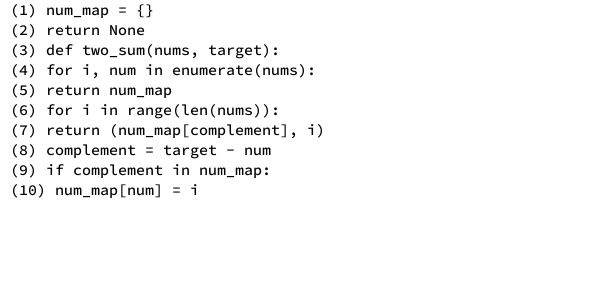
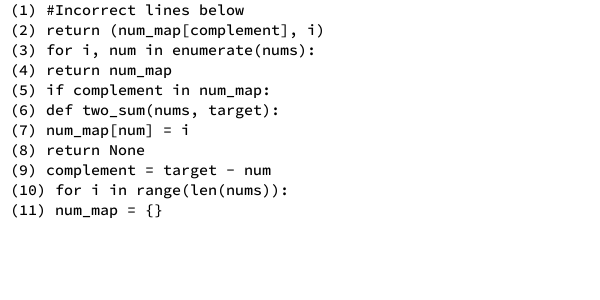
partial credit engine v1

diff --git a/lib/functions.py b/lib/functions.py
@@ -6,29 +6,49 @@
 from . import settings
 import random
 from PIL import Image, ImageDraw, ImageFont
+import ast
+import hashlib
+
+def similarity_preserving_shuffle(lines):
+    def line_hash(line):
+        # Convert line to a hash integer
+        return int(hashlib.md5(line.encode()).hexdigest(), 16)
+    
+    # Sort by hash, but we can mix in a secret salt for “randomness”
+    salt = 12345  # optional, fixed for deterministic behavior
+    def salted_hash(line):
+        return (line_hash(line) ^ salt)
+    
+    # Sort lines by their salted hash
+    return sorted(lines, key=salted_hash)
 
 def read_original_code(read_code):
     original_code = read_code.readlines()
-    wrong_inst = []
-    
     code_wo_empty_lines = [line for line in original_code if line.strip() != ""]
-    correct_sol = code_wo_empty_lines.copy()
-    
-    for el in range(len(correct_sol)):
-        correct_sol[el] = correct_sol[el].split('\n')[0]
+    correct_sol = [line.rstrip("\n") for line in code_wo_empty_lines]
 
-    
-    for line in correct_sol:
-        #Extracting wrong instructions
-        if "Incorrect lines" in line:
-            wrong_inst= correct_sol[correct_sol.index(line)+1:]
-            correct_sol = correct_sol[:correct_sol.index(line)]
+    incorrect_sol = []
+    incorrect_sol_dict = {}
+
+    for idx, line in enumerate(correct_sol):
+        if "incorrect_lines" in line:
+            # Include preceding comment if exists
+            if idx > 0 and correct_sol[idx-1].strip().startswith("#"):
+                idx -= 1
+            dict_lines = correct_sol[idx:]
+            correct_sol = correct_sol[:idx]
+            dict_str = "\n".join(dict_lines)
+            dict_part = dict_str.split("=", 1)[1].strip()
+            incorrect_sol_dict = ast.literal_eval(dict_part)
+            incorrect_sol = list(incorrect_sol_dict.values())
             break
-        
-    return correct_sol, wrong_inst
+
+    return correct_sol, incorrect_sol, incorrect_sol_dict
+
+
 
 def shuffle_sol(correct_sol):
-    random_code = random.sample(correct_sol, k=len(correct_sol))
+    random_code = similarity_preserving_shuffle(correct_sol.copy())
     
     #removing the indents for programming blocks
     for el in range(len(random_code)):
@@ -140,6 +160,45 @@ def incorrect_instructions(input_code, wrong_inst):
     code_w_incorrect_instrctns = input_code + wrong_inst
     print_code(code_w_incorrect_instrctns, "##### Code with Incorrect Instructions #####")
     return code_w_incorrect_instrctns
+
+def numerize_code(input_code):
+    num_line_pair = {}
+    for line in range(len(input_code)):
+        num_line_pair[line+1] = input_code[line]
+    return num_line_pair
+
+def swap_lines(num_partials, numbered_code, incorrect_lines):
+    code_copy = numbered_code.copy()
+    num_swaps = num_partials
+    for num, _ in code_copy.items():
+        if num_swaps == 0:
+            break
+        if num in incorrect_lines:
+            code_copy[num] = incorrect_lines[num]
+            num_swaps -= 1
+    swapped_code = list(code_copy.values())
+    return swapped_code
+
+def generate_partial_options(base_code, no_of_choices, incorrect_lines, remain_lines):
+    num_partials = no_of_choices//2
+    partial_options = []
+    numerized_code = numerize_code(base_code)
+    for swap in range(num_partials, 0, -1):
+        partial_option = swap_lines(swap, numerized_code, incorrect_lines)
+        lettered_partial_option = gen_correct_answer(partial_option, shuffle_sol(partial_option))[0]
+        random_partial_option = gen_random_choices_wICinst(lettered_partial_option, 1, remain_lines)[0]
+        partial_options.append(random_partial_option)
+    print("Generated Partial Options: ", partial_options)
+    return partial_options
+
+def generate_partial_answers(base_code, no_of_choices, incorrect_lines):
+    num_partials = no_of_choices//2
+    partial_options = []
+    numerized_code = numerize_code(base_code)
+    for swap in range(num_partials, 0, -1):
+        partial_option = swap_lines(swap, numerized_code, incorrect_lines)
+        partial_options.append(partial_option)
+    return partial_options
     
 
 def print_code(in_code, message = "##### Code #####"):

diff --git a/testmain.py b/testmain.py
@@ -1,0 +1,49 @@
+# -------------------------------------------------------------------------------
+# CodeShuffler © 2023 by Hasan Baig is licensed under CC BY-NC-SA 4.0. To view 
+# a copy of this license, visit http://creativecommons.org/licenses/by-nc-sa/4.0/
+# ------------------------------------------------------------------------------- 
+
+from lib import settings
+from lib import functions
+import sys
+
+#Reading code, extracting lines separately
+if sys.argv[1]:
+    file_name = sys.argv[1]
+else:
+    print("Enter the code's filename you want to shuffle.")
+    sys.exit(1)
+    
+read_code = open('codefiles/'+file_name)
+correct_sol, wrong_inst, wrong_inst_dict = functions.read_original_code(read_code)
+
+# message = "##### Correct Solution #####"
+# functions.print_code(correct_sol, message)
+correct_sol_w_incorrect= functions.incorrect_instructions(correct_sol, wrong_inst)
+# shuffled_sol = functions.shuffle_sol(correct_sol)
+# message = "##### Shuffled Question #####"
+# functions.print_code(shuffled_sol, message)
+# correct_answer, remain_lines = functions.gen_correct_answer(correct_sol, shuffled_sol)
+
+# random_choices = functions.gen_random_choices_wICinst(correct_answer, settings.no_of_choices, remain_lines)
+# partial_options = functions.generate_partial_options(correct_sol, settings.no_of_choices, wrong_inst_dict, remain_lines)
+
+#Shuffling Test
+shuffled_correct = functions.shuffle_sol(correct_sol_w_incorrect)
+correct_answer, remain_lines = functions.gen_correct_answer(correct_sol, shuffled_correct)
+random_choices = functions.gen_random_choices_wICinst(correct_answer, settings.no_of_choices, remain_lines)
+functions.print_code(shuffled_correct, "##### Shuffled Exam Question #####")
+partial_options = functions.generate_partial_answers(correct_sol_w_incorrect, settings.no_of_choices, wrong_inst_dict)
+partial_answers = []
+for option in partial_options:
+    shuffled_option = functions.shuffle_sol(option)
+    answer, _ = functions.gen_correct_answer(option, shuffled_option)
+    partial_answers.append(answer)
+    functions.print_code(shuffled_option, "##### Shuffled Partial Option #####")
+print()
+print("Correct answer: ", correct_answer)
+print("Multiple answers: ", random_choices) 
+print("Partial credit options: ", partial_answers)
+print()    
+
+

diff --git a/tests/partialcredit.py b/tests/partialcredit.py
@@ -1,0 +1,48 @@
+from partialcredit import sort_by_similarity
+
+def test_basic_case():
+    options = ['3,1,4,8,6,9,7,10', '3,1,4,8,10,2,9,5', '3,1,4,8,10,9,2', '3,1,4,8,9,2,10', '3,1,4,8,9,7,10']
+    correct = '3,1,4,8,9,2,10'
+    sorted_opts = sort_by_similarity(options, correct)
+    assert sorted_opts[0] == '3,1,4,8,9,2,10'
+    assert sorted_opts[1] == '3,1,4,8,9,7,10'
+    print(sorted_opts)
+    print("test_basic_case passed")
+
+def test_perfect_match_only():
+    options = ['1,2,3,4']
+    correct = '1,2,3,4'
+    sorted_opts = sort_by_similarity(options, correct)
+    assert sorted_opts == ['1,2,3,4']
+    print("test_perfect_match_only passed")
+
+def test_no_common_elements():
+    options = ['9,8,7', 'a,b,c', 'x,y,z']
+    correct = '1,2,3'
+    sorted_opts = sort_by_similarity(options, correct)
+    assert set(sorted_opts) == set(options)
+    print("test_no_common_elements passed")
+
+def test_partial_overlap():
+    options = ['1,2,3,4,5', '1,2,3,9,9', '1,2,4,4,4']
+    correct = '1,2,3,4,5'
+    sorted_opts = sort_by_similarity(options, correct)
+    assert sorted_opts[0] == '1,2,3,4,5'
+    assert sorted_opts[1] == '1,2,3,9,9'
+    print("test_partial_overlap passed")
+
+def test_different_lengths():
+    options = ['1,2,3', '1,2', '1,2,3,4,5']
+    correct = '1,2,3,4,5'
+    sorted_opts = sort_by_similarity(options, correct)
+    assert sorted_opts[0] == '1,2,3,4,5'
+    assert sorted_opts[1] == '1,2,3'
+    print("test_different_lengths passed")
+
+if __name__ == "__main__":
+    test_basic_case()
+    test_perfect_match_only()
+    test_no_common_elements()
+    test_partial_overlap()
+    test_different_lengths()
+    print("All tests passed!")

diff --git a/lib/similarity.py b/lib/similarity.py
@@ -1,0 +1,30 @@
+def similarity(a, b):
+    #Helper function to calculate similarity between two given options
+    a_parts = a.split(',')
+    b_parts = b.split(',')
+    matches = 0
+    for i in range(min(len(a_parts), len(b_parts))):
+        if a_parts[i] == b_parts[i]:
+            matches += 1
+    return matches / max(len(a_parts), len(b_parts))
+def find_closest(options, correct_answer):
+    #Find the most similar MCQ option to the correct answer
+    best = None
+    best_score = -1
+    for choice in options:
+        score = similarity(choice, correct_answer)
+        if score > best_score:
+            best_score = score
+            best = choice
+    return best
+def sort_by_similarity(options, correct_answer):
+    #Sort the MCQ options based on their similarity to the correct answer
+    options_copy = options.copy()
+    sorted_options = []
+    i = 0
+    while i < len(options):
+        closest = find_closest(options_copy, correct_answer)
+        sorted_options.append(closest)
+        options_copy.remove(closest)
+        i += 1
+    return sorted_options

diff --git a/main.py b/main.py
@@ -15,7 +15,7 @@ else:
     sys.exit(1)
     
 read_code = open('codefiles/'+file_name)
-correct_sol, wrong_inst = functions.read_original_code(read_code)
+correct_sol, wrong_inst, wrong_inst_dict = functions.read_original_code(read_code)
 
 
 message = "##### Correct Solution #####"

diff --git a/codefiles/testcode2.py b/codefiles/testcode2.py
@@ -8,5 +8,7 @@ def two_sum(nums, target):
     return None
 
 #Incorrect lines below
-for i in range(len(nums)): 
-return num_map
+incorrect_lines = {
+    3: "for i in range(len(nums)):", 
+    8: "return num_map"
+}            
